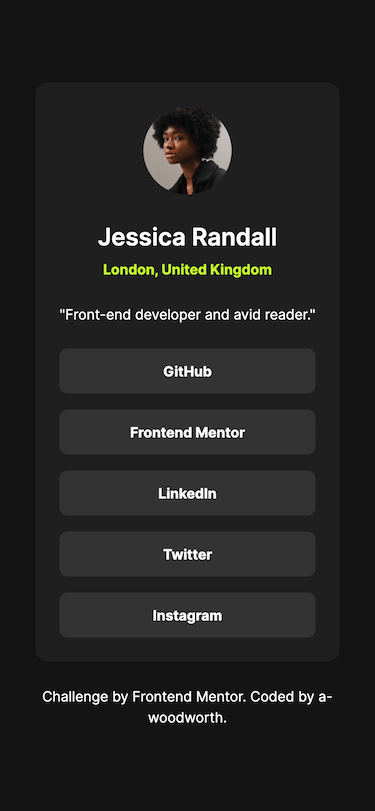
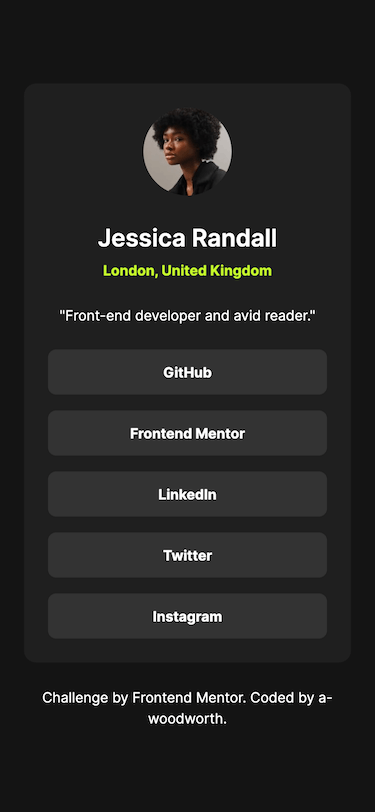
Adjust width on mobile card layout. Update screenshot.

diff --git a/styles.css b/styles.css
@@ -121,7 +121,7 @@ body {
   flex-direction: column;
   justify-content: center;
   align-items: center;
-  max-width: 20.5rem;
+  min-width: 20.4375rem;
   padding: var(--spacing-300);
   text-align: center;
 }
